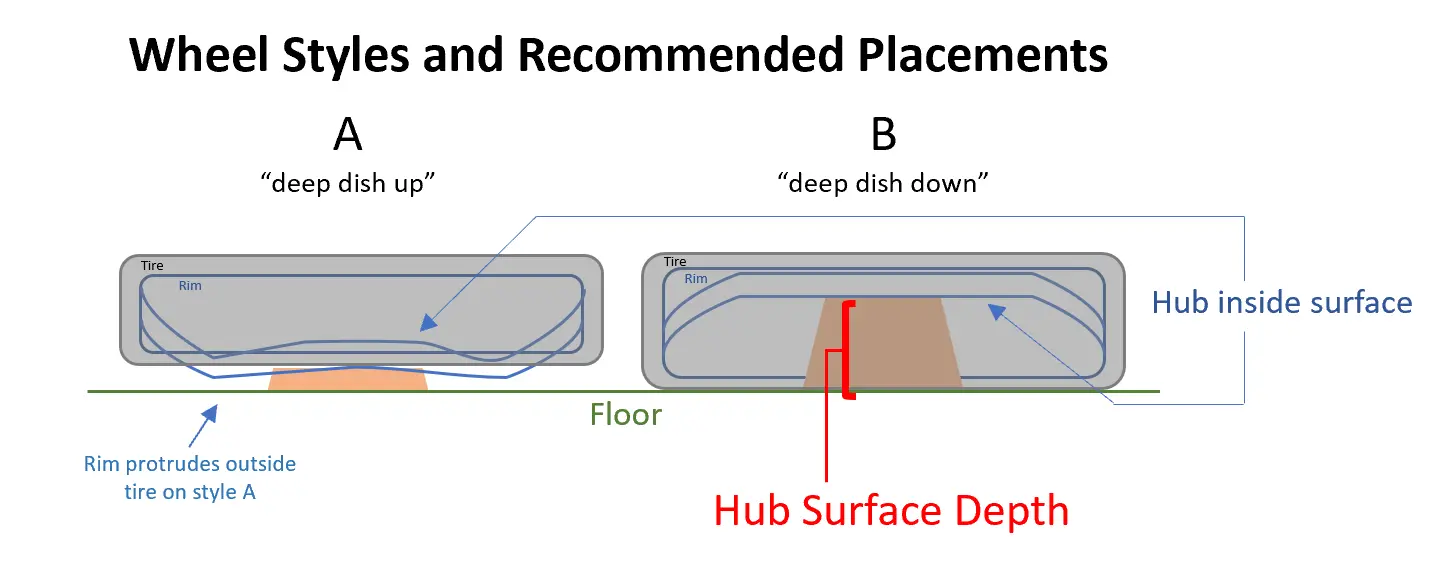
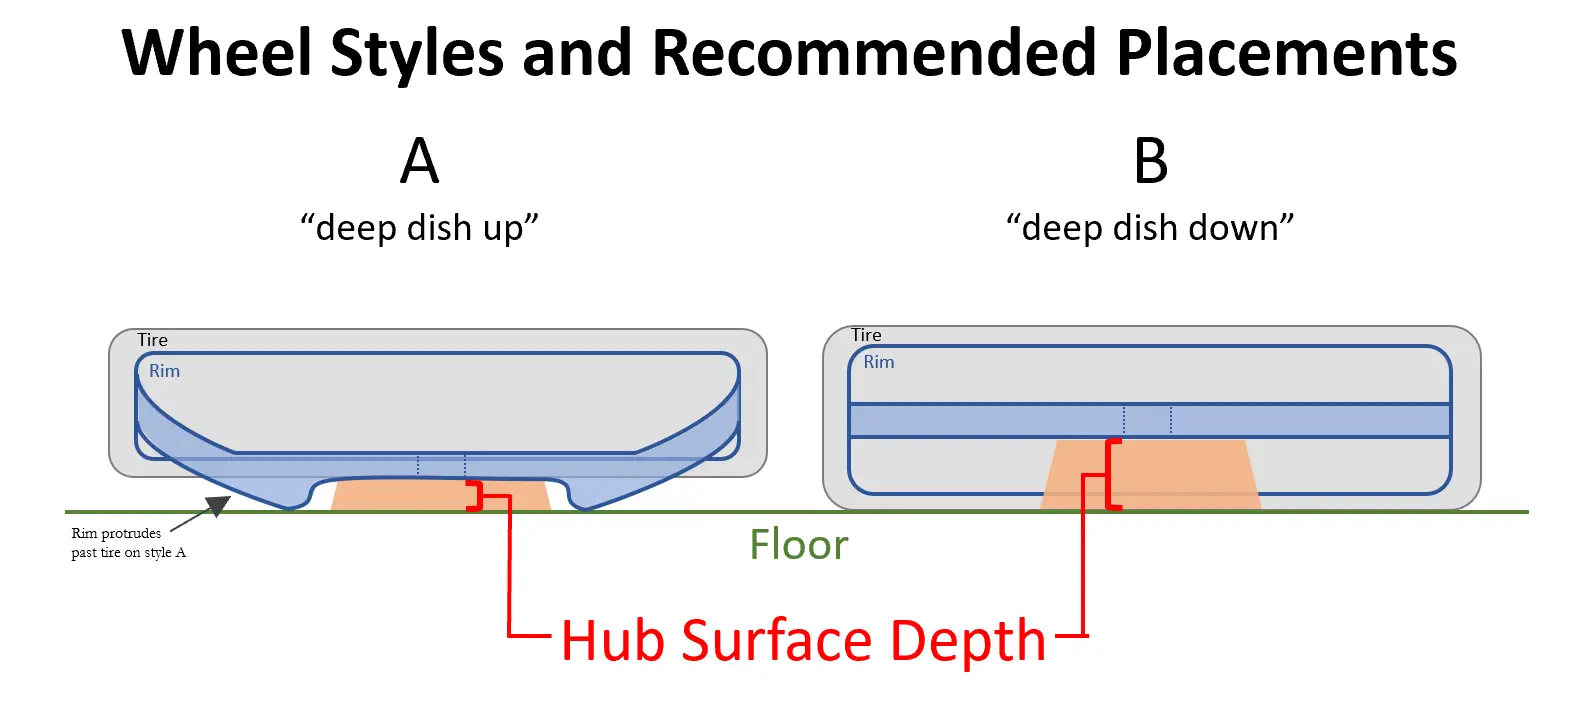
update diagram and wording

diff --git a/_store/0-toyota-corolla-cross-hybrid-spare-wheel-holder.md b/_store/0-toyota-corolla-cross-hybrid-spare-wheel-holder.md
@@ -84,17 +84,19 @@ Lead time is ~1 month. This part is made-to-order.
 
 ### 🔧 Order Measurements
 
-Determine which placement direction works best for your tire. 
-
-Placement A "deep dish up" is recommended when the rim protudes significantly from the tire.
+Determine which placement direction works best for your tire.
 
 ![Tire styles and recommended placements](/assets/images/store/tire-storage-direction.webp)
 
+Placement A "deep dish up" is recommended when the rim protudes significantly from the tire (e.g. Toyota CC OEM Spare Tire).
+
 Include the following measurements with your order to get the best fit the first time:
 
-- **Center Bore Diameter (mm)** *For all placements*
+- **Center Bore Diameter (mm)** - The diameter of the center hole in the rim.
 
-- **Hub Surface Depth (mm)** *For placement B "deep dish down"* - The distance from the downward [hub](/assets/images/store/parts-of-a-wheel-rim_50perc.webp) surface to the ground when the tire is laid on its side for storage. This is **not** the same as Wheel Backspacing because the rubber tire width must be considered. This can be directly measured with the tire (preferred) or estimated with the below equation:
+- **Hub Surface Depth (mm)** - The distance from the downward [hub](/assets/images/store/parts-of-a-wheel-rim_50perc.webp) surface to the ground when the tire is laid flat for storage. Hub Surface Depth is most accurately physically measured with the actual tire. If the measured Hub Surface Depth is < 20 mm, the tire should be laid on the other side.
+
+  - It can be estimated with the below equation.
 
   {% raw %}
   $$
@@ -102,6 +104,8 @@ Include the following measurements with your order to get the best fit the first
   $$
   {% endraw %}
 
-  - **Tire Width (mm)** - Tire width is ***XXX*** from the [DOT tire code](https://en.wikipedia.org/wiki/Tire_code) format ***XXX**/YYRDD*
+  > *Tire Width (mm)* - Tire width is ***XXX*** from the [DOT tire code](https://en.wikipedia.org/wiki/Tire_code) format ***XXX**/YYRDD*
+  >
+  > *Wheel Offset (mm)* - Offset of the hub mounting surface relative to the centerline of the wheel. Positive offset is towards the street side. Negative offset is towards the car side. [Reference](https://www.lesschwab.com/article/wheels/what-is-wheel-offset.html)
 
-  - **Wheel Offset (mm)** - Offset of the hub mounting surface relative to the centerline of the wheel. Positive offset is towards the street side. Negative offset is towards the car side. [Reference](https://www.lesschwab.com/article/wheels/what-is-wheel-offset.html)
+  - This is **not** the same as Wheel Backspacing because the rubber tire width must be considered.
